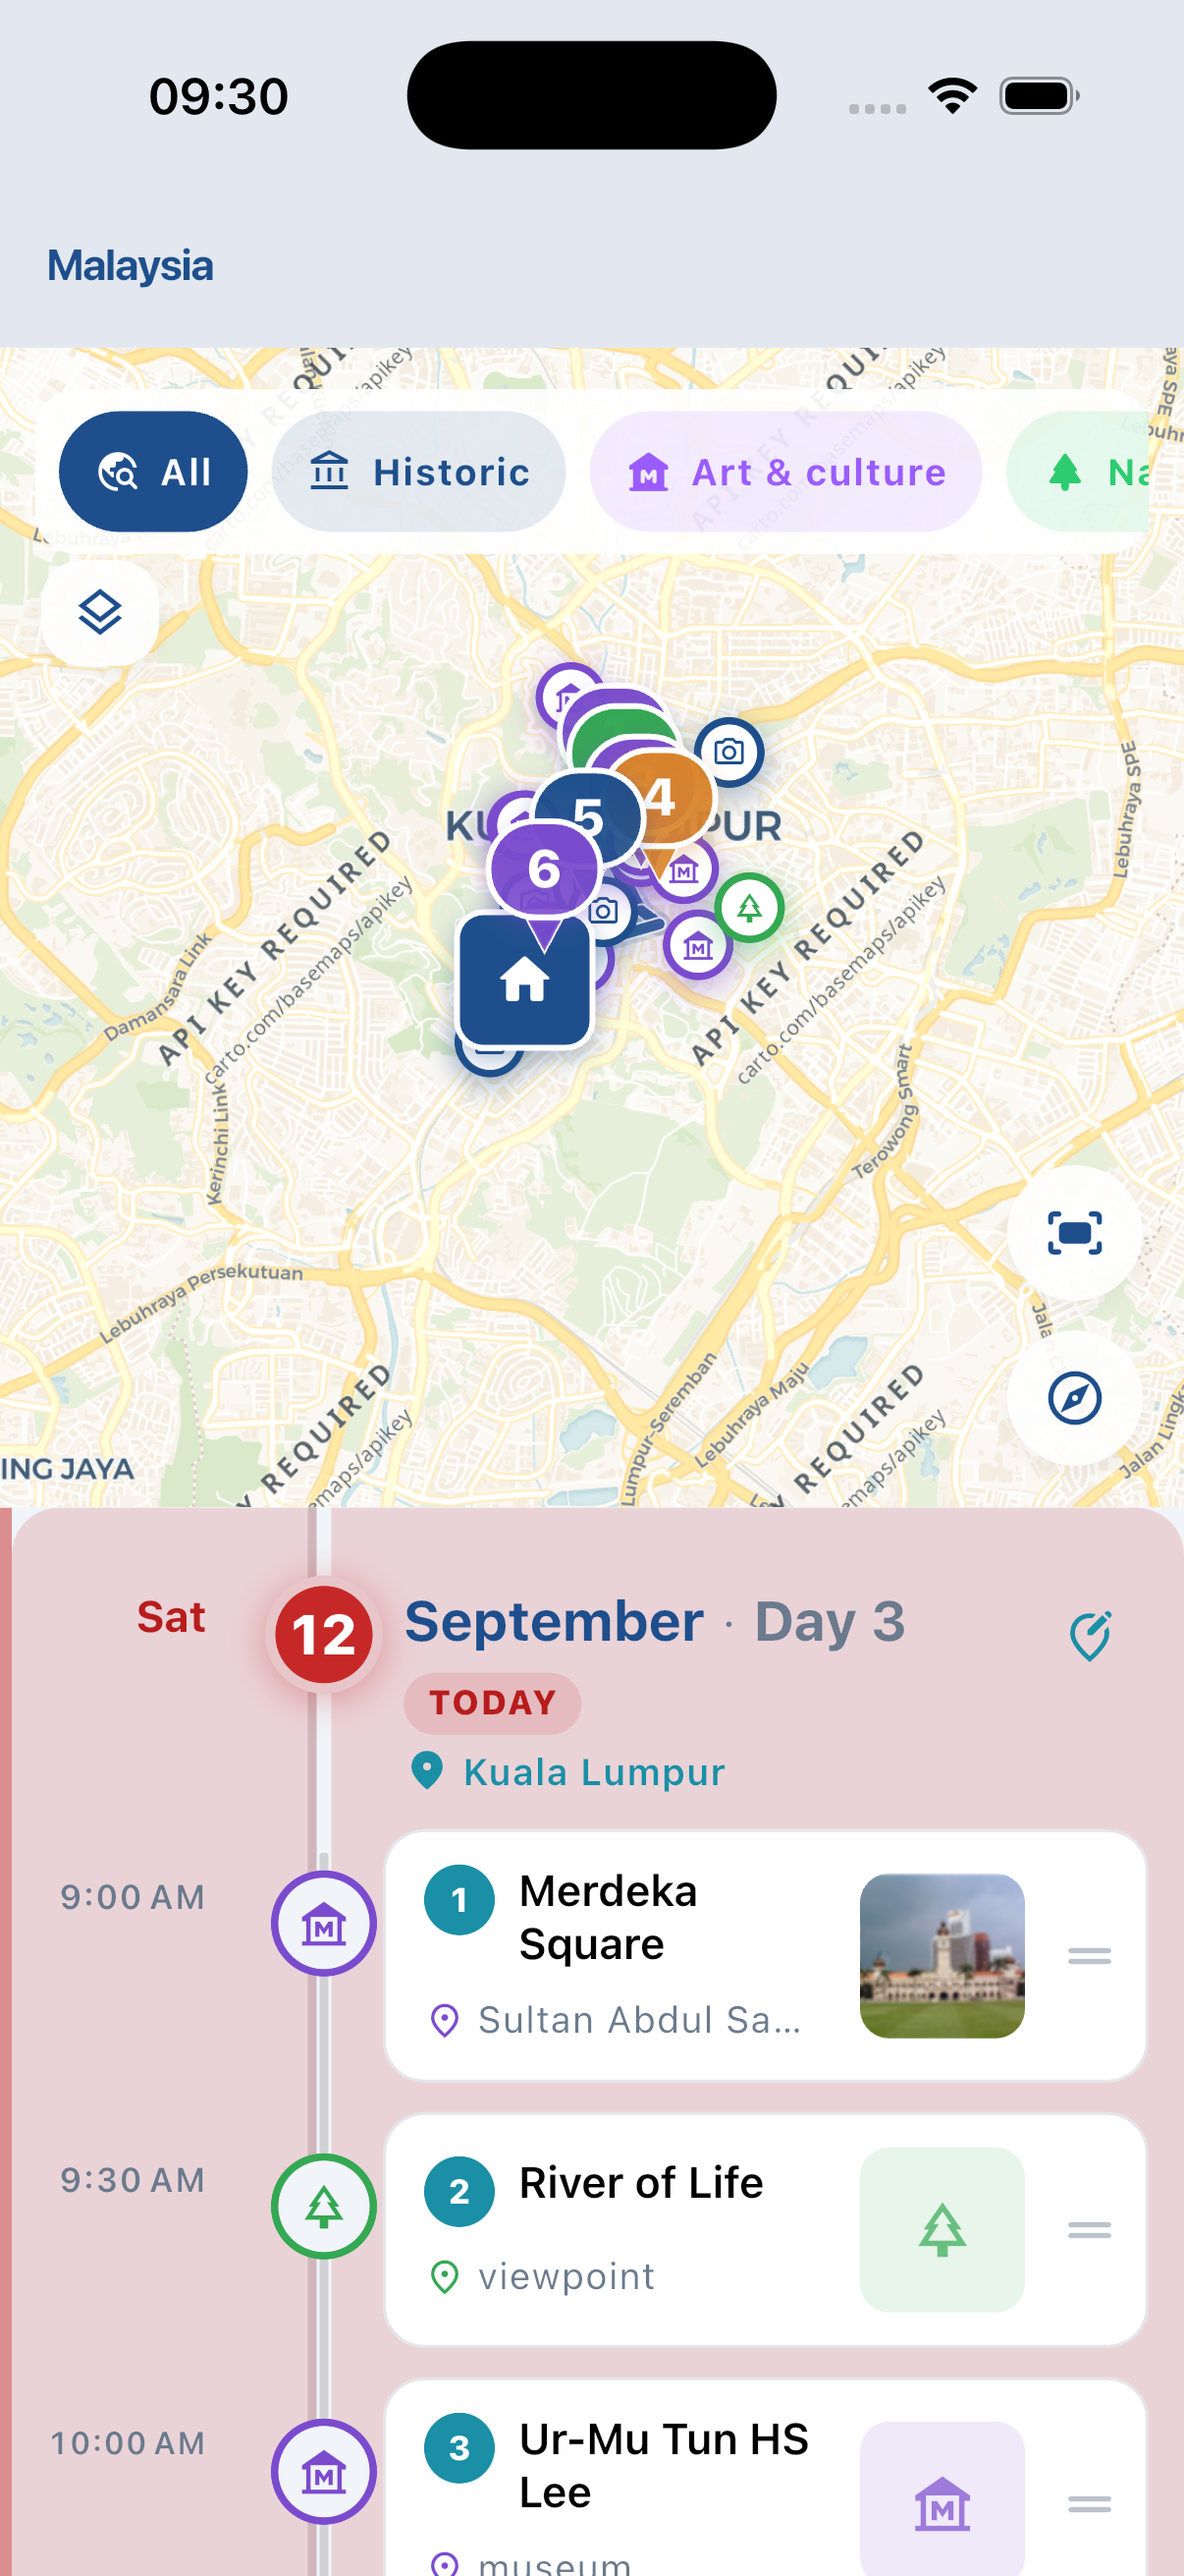
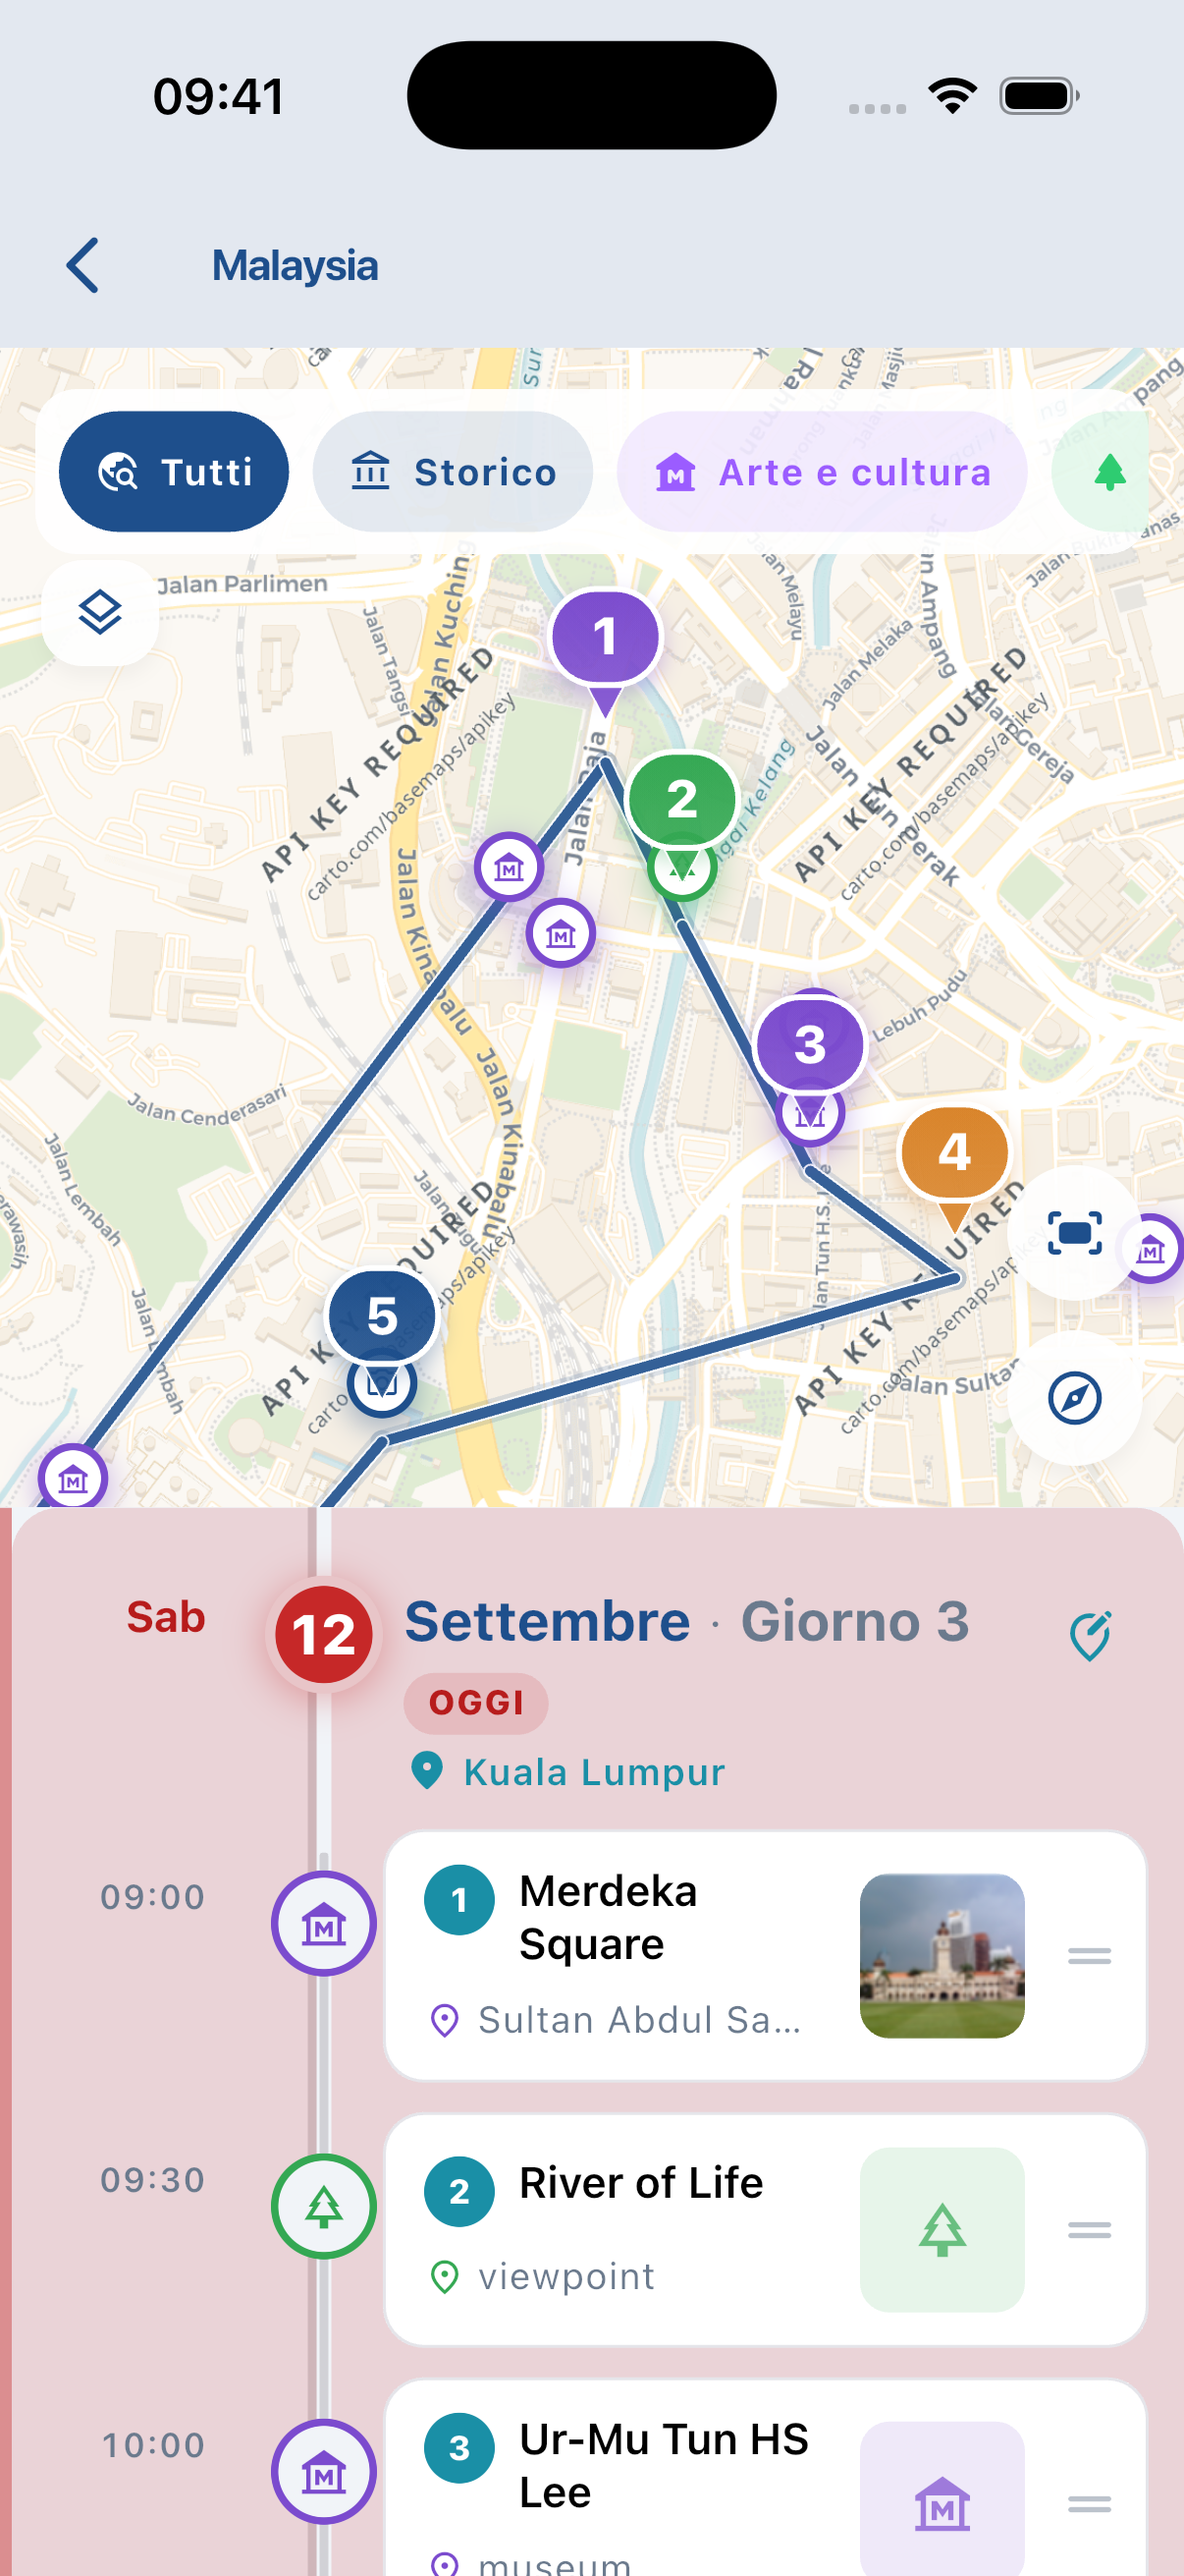
Refresh the day-map marketing screenshot at the chosen zoom.

diff --git a/en/screenshots/index.html b/en/screenshots/index.html
@@ -64,7 +64,7 @@
           <div class="phone-bezel"><div class="phone-screen"><img src="/assets/screenshots/02-plan-1206.png?v=4" alt="" width="1206" height="2622" loading="eager" decoding="async"></div></div>
         </div>
         <div class="phone phone--right phone--hires">
-          <div class="phone-bezel"><div class="phone-screen"><img src="/assets/screenshots/08-plan-map-1206.png?v=5" alt="" width="1206" height="2622" loading="eager" decoding="async"></div></div>
+          <div class="phone-bezel"><div class="phone-screen"><img src="/assets/screenshots/08-plan-map-1206.png?v=6" alt="" width="1206" height="2622" loading="eager" decoding="async"></div></div>
         </div>
       </div>
     </div>
@@ -107,7 +107,7 @@
       </div>
       <figure class="shot-device">
         <div class="phone phone--xlarge phone--hires">
-          <div class="phone-bezel"><div class="phone-screen"><img src="/assets/screenshots/08-plan-map-1206.png?v=5" alt="" width="1206" height="2622" data-i18n-alt="shotMapAlt" loading="lazy" decoding="async"></div></div>
+          <div class="phone-bezel"><div class="phone-screen"><img src="/assets/screenshots/08-plan-map-1206.png?v=6" alt="" width="1206" height="2622" data-i18n-alt="shotMapAlt" loading="lazy" decoding="async"></div></div>
         </div>
         <figcaption data-i18n="shotMapCaption">Mappa e itinerario</figcaption>
       </figure>

diff --git a/screenshots/index.html b/screenshots/index.html
@@ -64,7 +64,7 @@
           <div class="phone-bezel"><div class="phone-screen"><img src="/assets/screenshots/02-plan-1206.png?v=4" alt="" width="1206" height="2622" loading="eager" decoding="async"></div></div>
         </div>
         <div class="phone phone--right phone--hires">
-          <div class="phone-bezel"><div class="phone-screen"><img src="/assets/screenshots/08-plan-map-1206.png?v=5" alt="" width="1206" height="2622" loading="eager" decoding="async"></div></div>
+          <div class="phone-bezel"><div class="phone-screen"><img src="/assets/screenshots/08-plan-map-1206.png?v=6" alt="" width="1206" height="2622" loading="eager" decoding="async"></div></div>
         </div>
       </div>
     </div>
@@ -107,7 +107,7 @@
       </div>
       <figure class="shot-device">
         <div class="phone phone--xlarge phone--hires">
-          <div class="phone-bezel"><div class="phone-screen"><img src="/assets/screenshots/08-plan-map-1206.png?v=5" alt="" width="1206" height="2622" data-i18n-alt="shotMapAlt" loading="lazy" decoding="async"></div></div>
+          <div class="phone-bezel"><div class="phone-screen"><img src="/assets/screenshots/08-plan-map-1206.png?v=6" alt="" width="1206" height="2622" data-i18n-alt="shotMapAlt" loading="lazy" decoding="async"></div></div>
         </div>
         <figcaption data-i18n="shotMapCaption">Mappa e itinerario</figcaption>
       </figure>
